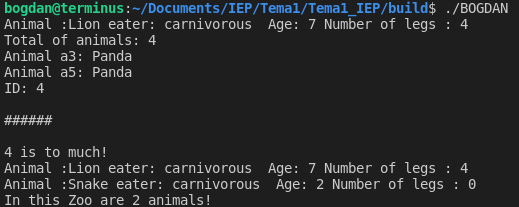
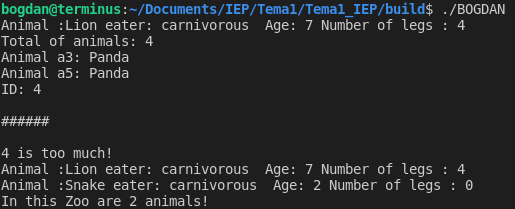
Images 114.png correction

diff --git a/classes/Zoo.cpp b/classes/Zoo.cpp
@@ -35,7 +35,7 @@ void Zoo::addAnimal(Animal a, int id){
 void Zoo::deleteAnimal(int number){
     if(animals.size() <= number)
     {
-        cout << number << " is to much!" << endl;
+        cout << number << " is too much!" << endl;
         return;
     }
     this->animals.erase(this->animals.begin()+number);
